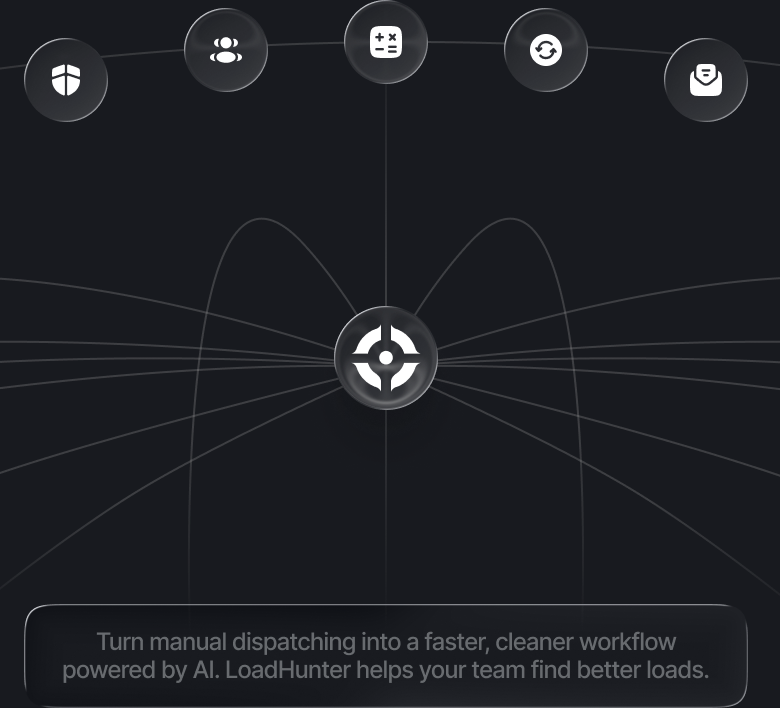
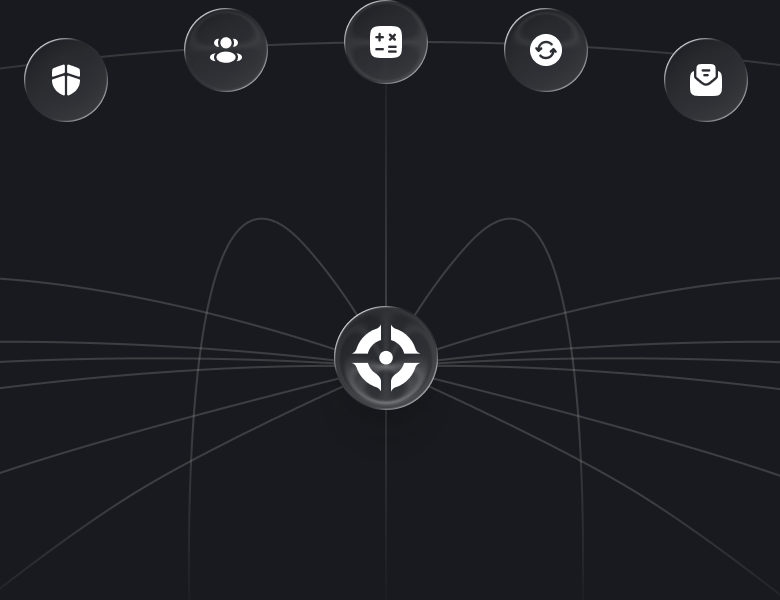
Align tablet/phone content with the current desktop design
The 768/390 landings were built from the older Figma iteration; the
desktop copy is the source of truth now:
- Hero: eyebrow, H1 ('Book better loads before anyone else'), 'In under
  30 seconds' countup badge, description and CTAs ('Start free trial 14
  days' + diamond 'Start booking in minutes') ported to both breakpoints,
  replacing 'See loads before competitors' / 'Add to Chrome'.
- Phone Features: heading/subtitle were the old 'Why thousands of
  dispatchers...' + lorem ipsum; now the desktop 'Everything you need to
  book faster' block.
- Tablet Why: lorem ipsum subtitle replaced with the desktop line.
- Phone pricing: AI plan CTA 'Contact us' -> 'Add to wishlist'.
- Chaos: the baked caption pill (old wording) is cropped off both
  diagram exports and rebuilt as live text with the desktop line
  'Logistics is moving to AI. Don't get left behind.'

diff --git a/src/sections/tablet/TabletHero.tsx b/src/sections/tablet/TabletHero.tsx
@@ -28,7 +28,7 @@ export function TabletHero() {
               "linear-gradient(to bottom, rgba(255,255,255,0.06), rgba(255,255,255,0.05))",
           }}
         >
-          The AI-powered browser extension for smarter dispatching
+          The AI copilot for smarter dispatching.
         </span>
 
         <div
@@ -43,9 +43,9 @@ export function TabletHero() {
                 "linear-gradient(98.816deg, rgb(255,255,255) 1.9565%, rgb(63,63,63) 100%)",
             }}
           >
-            See loads before
+            Book better loads
             <br />
-            competitors
+            before anyone else
           </h1>
 
           {/* badge pill */}
@@ -64,14 +64,15 @@ export function TabletHero() {
                   "linear-gradient(105.965deg, rgb(255,255,255) 1.9565%, rgb(63,63,63) 100%)",
               }}
             >
-              do 47 seconds faster
+              In under 30 seconds
             </span>
           </div>
         </div>
 
         {/* paragraph */}
-        <p className="text-center text-[14px] font-medium leading-[16px] tracking-[-0.56px] text-white">
-          One dashboard. All boards. One click. Done
+        <p className="max-w-[520px] text-center text-[14px] font-medium leading-[16px] tracking-[-0.56px] text-white">
+          LoadHunter scans loadboard in real-time, filters high-RPM loads, and
+          lets you contact brokers instantly &mdash; email, SMS, or call.
         </p>
 
         {/* CTAs */}
@@ -88,37 +89,15 @@ export function TabletHero() {
             Start free trial 14 days
           </button>
           <button
-            className="relative flex h-[42px] items-center justify-center gap-[8px] rounded-[99px] bg-[#6f5197] py-[4px] pl-[9px] pr-[12px] text-[14px] font-medium leading-[16px] tracking-[-0.56px] text-white backdrop-blur-[10px]"
+            className="flex h-[42px] items-center justify-center gap-[8px] overflow-hidden rounded-[99px] border border-white py-[4px] pl-[9px] pr-[16px] text-[14px] font-medium leading-[16px] tracking-[-0.56px] text-white"
             style={{
-              boxShadow:
-                "0px 1px 0px 0px rgba(0,0,0,0.05), 0px 4px 4px 0px rgba(0,0,0,0.05), 0px 10px 10px 0px rgba(0,0,0,0.1)",
+              backgroundImage:
+                "radial-gradient(60% 140% at 50% 110%, rgba(111,81,151,1) 0%, rgba(111,81,151,0) 100%)",
+              boxShadow: "0px 34px 74px -20px rgba(111,81,151,0.5)",
             }}
           >
-            <img
-              src="/figma/tablet/chrome-icon.svg"
-              alt=""
-              className="size-[24.811px]"
-            />
-            Add to Chrome
-            {/* base rim */}
-            <span
-              aria-hidden
-              className="pointer-events-none absolute inset-0 rounded-[99px] border border-white/10"
-            />
-            {/* gradient overlay rim */}
-            <span
-              aria-hidden
-              className="pointer-events-none absolute inset-0 rounded-[99px] mix-blend-overlay"
-              style={{
-                padding: 1,
-                background:
-                  "linear-gradient(to top, rgba(255,255,255,0), #ffffff)",
-                WebkitMask:
-                  "linear-gradient(#fff 0 0) content-box, linear-gradient(#fff 0 0)",
-                WebkitMaskComposite: "xor",
-                maskComposite: "exclude",
-              }}
-            />
+            <img src="/figma/icon-diamond.svg" alt="" className="size-[21px]" />
+            Start booking in minutes
           </button>
         </div>
       </div>

diff --git a/src/sections/phone/PhoneHero.tsx b/src/sections/phone/PhoneHero.tsx
@@ -28,7 +28,7 @@ export function PhoneHero() {
             "linear-gradient(to bottom, rgba(255,255,255,0.06), rgba(255,255,255,0.05))",
         }}
       >
-        The AI-powered browser extension for smarter dispatching
+        The AI copilot for smarter dispatching.
       </div>
 
       {/* H1 gradient */}
@@ -39,9 +39,9 @@ export function PhoneHero() {
             "linear-gradient(98.63deg, rgb(255,255,255) 1.96%, rgb(63,63,63) 100%)",
         }}
       >
-        See loads before
+        Book better loads
         <br />
-        competitors
+        before anyone else
       </h1>
 
       {/* badge pill */}
@@ -60,13 +60,14 @@ export function PhoneHero() {
               "linear-gradient(105.98deg, rgb(255,255,255) 1.96%, rgb(63,63,63) 100%)",
           }}
         >
-          do 47 seconds faster
+          In under 30 seconds
         </span>
       </div>
 
       {/* paragraph */}
-      <p className="absolute left-[14px] top-[360px] w-[362px] text-center text-[14px] font-medium leading-[16px] tracking-[-0.56px] text-white">
-        One dashboard. All boards. One click. Done
+      <p className="absolute left-[14px] top-[352px] w-[362px] text-center text-[14px] font-medium leading-[16px] tracking-[-0.56px] text-white">
+        LoadHunter scans loadboard in real-time, filters high-RPM loads, and
+        lets you contact brokers instantly &mdash; email, SMS, or call.
       </p>
 
       {/* CTAs */}
@@ -117,11 +118,11 @@ export function PhoneHero() {
           }}
         />
         <img
-          src="/figma/phone/hero-btn-icon.svg"
+          src="/figma/icon-diamond.svg"
           alt=""
           className="size-[23px]"
         />
-        Add to Chrome
+        Start booking in minutes
       </button>
 
       {/* product mockup (browser + settings popup) */}

diff --git a/src/sections/tablet/TabletBottom.tsx b/src/sections/tablet/TabletBottom.tsx
@@ -124,8 +124,7 @@ function WhySection() {
         Why LoadHunter
       </h2>
       <p className="absolute left-[40px] top-[184px] w-[688px] text-center text-[14px] font-medium leading-[16px] tracking-[-0.56px] text-ink-2">
-        Lorem ipsum dolor sit amet, consectetur adipiscing elit, sed do eiusmod
-        tempor incididunt ut labore et dolore magna aliqua.
+        Measured across real bookings. Based on real dispatcher workflows.
       </p>
 
       {/* comparison table */}
@@ -993,13 +992,20 @@ export function TabletBottom() {
         by hand. LoadHunter automates the busywork so your team can find better
         loads, respond faster, and book with confidence.
       </p>
+      {/* diagram export is cropped above its baked caption pill; the pill is
+          live text below so it matches the desktop wording */}
       <img loading="lazy" decoding="async"
         src="/figma/tablet/chaos.png"
         alt=""
         aria-hidden
         data-parallax="0.04"
-        className="absolute left-0 top-[932px] h-[555px] w-[768px] max-w-none"
+        className="absolute left-0 top-[932px] h-[500px] w-[768px] max-w-none"
       />
+      <div className="absolute left-1/2 top-[1438px] flex -translate-x-1/2 items-center justify-center rounded-[16px] border border-[rgba(255,255,255,0.08)] bg-[rgba(255,255,255,0.04)] px-[24px] py-[12px] backdrop-blur-[20px]">
+        <span className="whitespace-nowrap text-[14px] font-medium leading-[16px] tracking-[-0.56px] text-gray-300">
+          Logistics is moving to AI. Don&rsquo;t get left behind.
+        </span>
+      </div>
 
       <PricingSection top={1607} />
       <TestimonialsSection top={2825} />

diff --git a/src/sections/phone/PhoneChaos.tsx b/src/sections/phone/PhoneChaos.tsx
@@ -19,13 +19,20 @@ export function PhoneChaos() {
         loads, respond faster, and book with confidence.
       </p>
 
-      {/* rings + icon nodes + caption pill — decorative 2x export (clipped render) */}
+      {/* rings + icon nodes — the export is cropped above its baked caption
+          pill; the pill is live text below so it matches the desktop wording */}
       <img loading="lazy" decoding="async"
         src="/figma/phone/chaos.png"
         data-parallax="0.04"
-        alt="Turn manual dispatching into a faster, cleaner workflow powered by AI. LoadHunter helps your team find better loads."
+        alt=""
+        aria-hidden
         className="absolute left-0 top-[216px] w-[390px] max-w-none"
       />
+      <div className="absolute left-[14px] top-[528px] flex w-[362px] items-center justify-center rounded-[16px] border border-[rgba(255,255,255,0.08)] bg-[rgba(255,255,255,0.04)] px-[20px] py-[12px] backdrop-blur-[20px]">
+        <span className="text-center text-[14px] font-medium leading-[16px] tracking-[-0.56px] text-gray-300">
+          Logistics is moving to AI. Don&rsquo;t get left behind.
+        </span>
+      </div>
     </section>
   )
 }

diff --git a/src/sections/phone/PhoneFeatures.tsx b/src/sections/phone/PhoneFeatures.tsx
@@ -111,13 +111,11 @@ export function PhoneFeatures() {
       </div>
 
       <h2 className="absolute left-[14px] top-[214px] w-[362px] text-center text-[20px] font-medium leading-[24px] tracking-[-0.8px] text-ink">
-        Why thousands of dispatchers
-        <br />
-        choose LoadHunter
+        Everything you need to book faster &mdash; nothing extra
       </h2>
       <p className="absolute left-[14px] top-[286px] w-[362px] text-center text-[14px] font-medium leading-[16px] tracking-[-0.56px] text-ink-2">
-        Lorem ipsum dolor sit amet, consectetur adipiscing elit, sed do eiusmod
-        tempor incididunt ut labore et dolore magna aliqua.
+        New loads appear instantly &mdash; no refresh, no delay. Email or text
+        brokers in seconds, not minutes.
       </p>
 
       {/* cards */}

diff --git a/src/sections/phone/PhonePricing.tsx b/src/sections/phone/PhonePricing.tsx
@@ -118,7 +118,7 @@ const PLANS: Plan[] = [
     blurb: "Our comprehensive enterprise solution comes fully equipped with all the professional features.",
     price: "Let's talk",
     note: "Best value for 20+ dispatchers.",
-    cta: "Contact us",
+    cta: "Add to wishlist",
     head: "ai",
     panelH: 218,
     cols: PRO_COLS,
